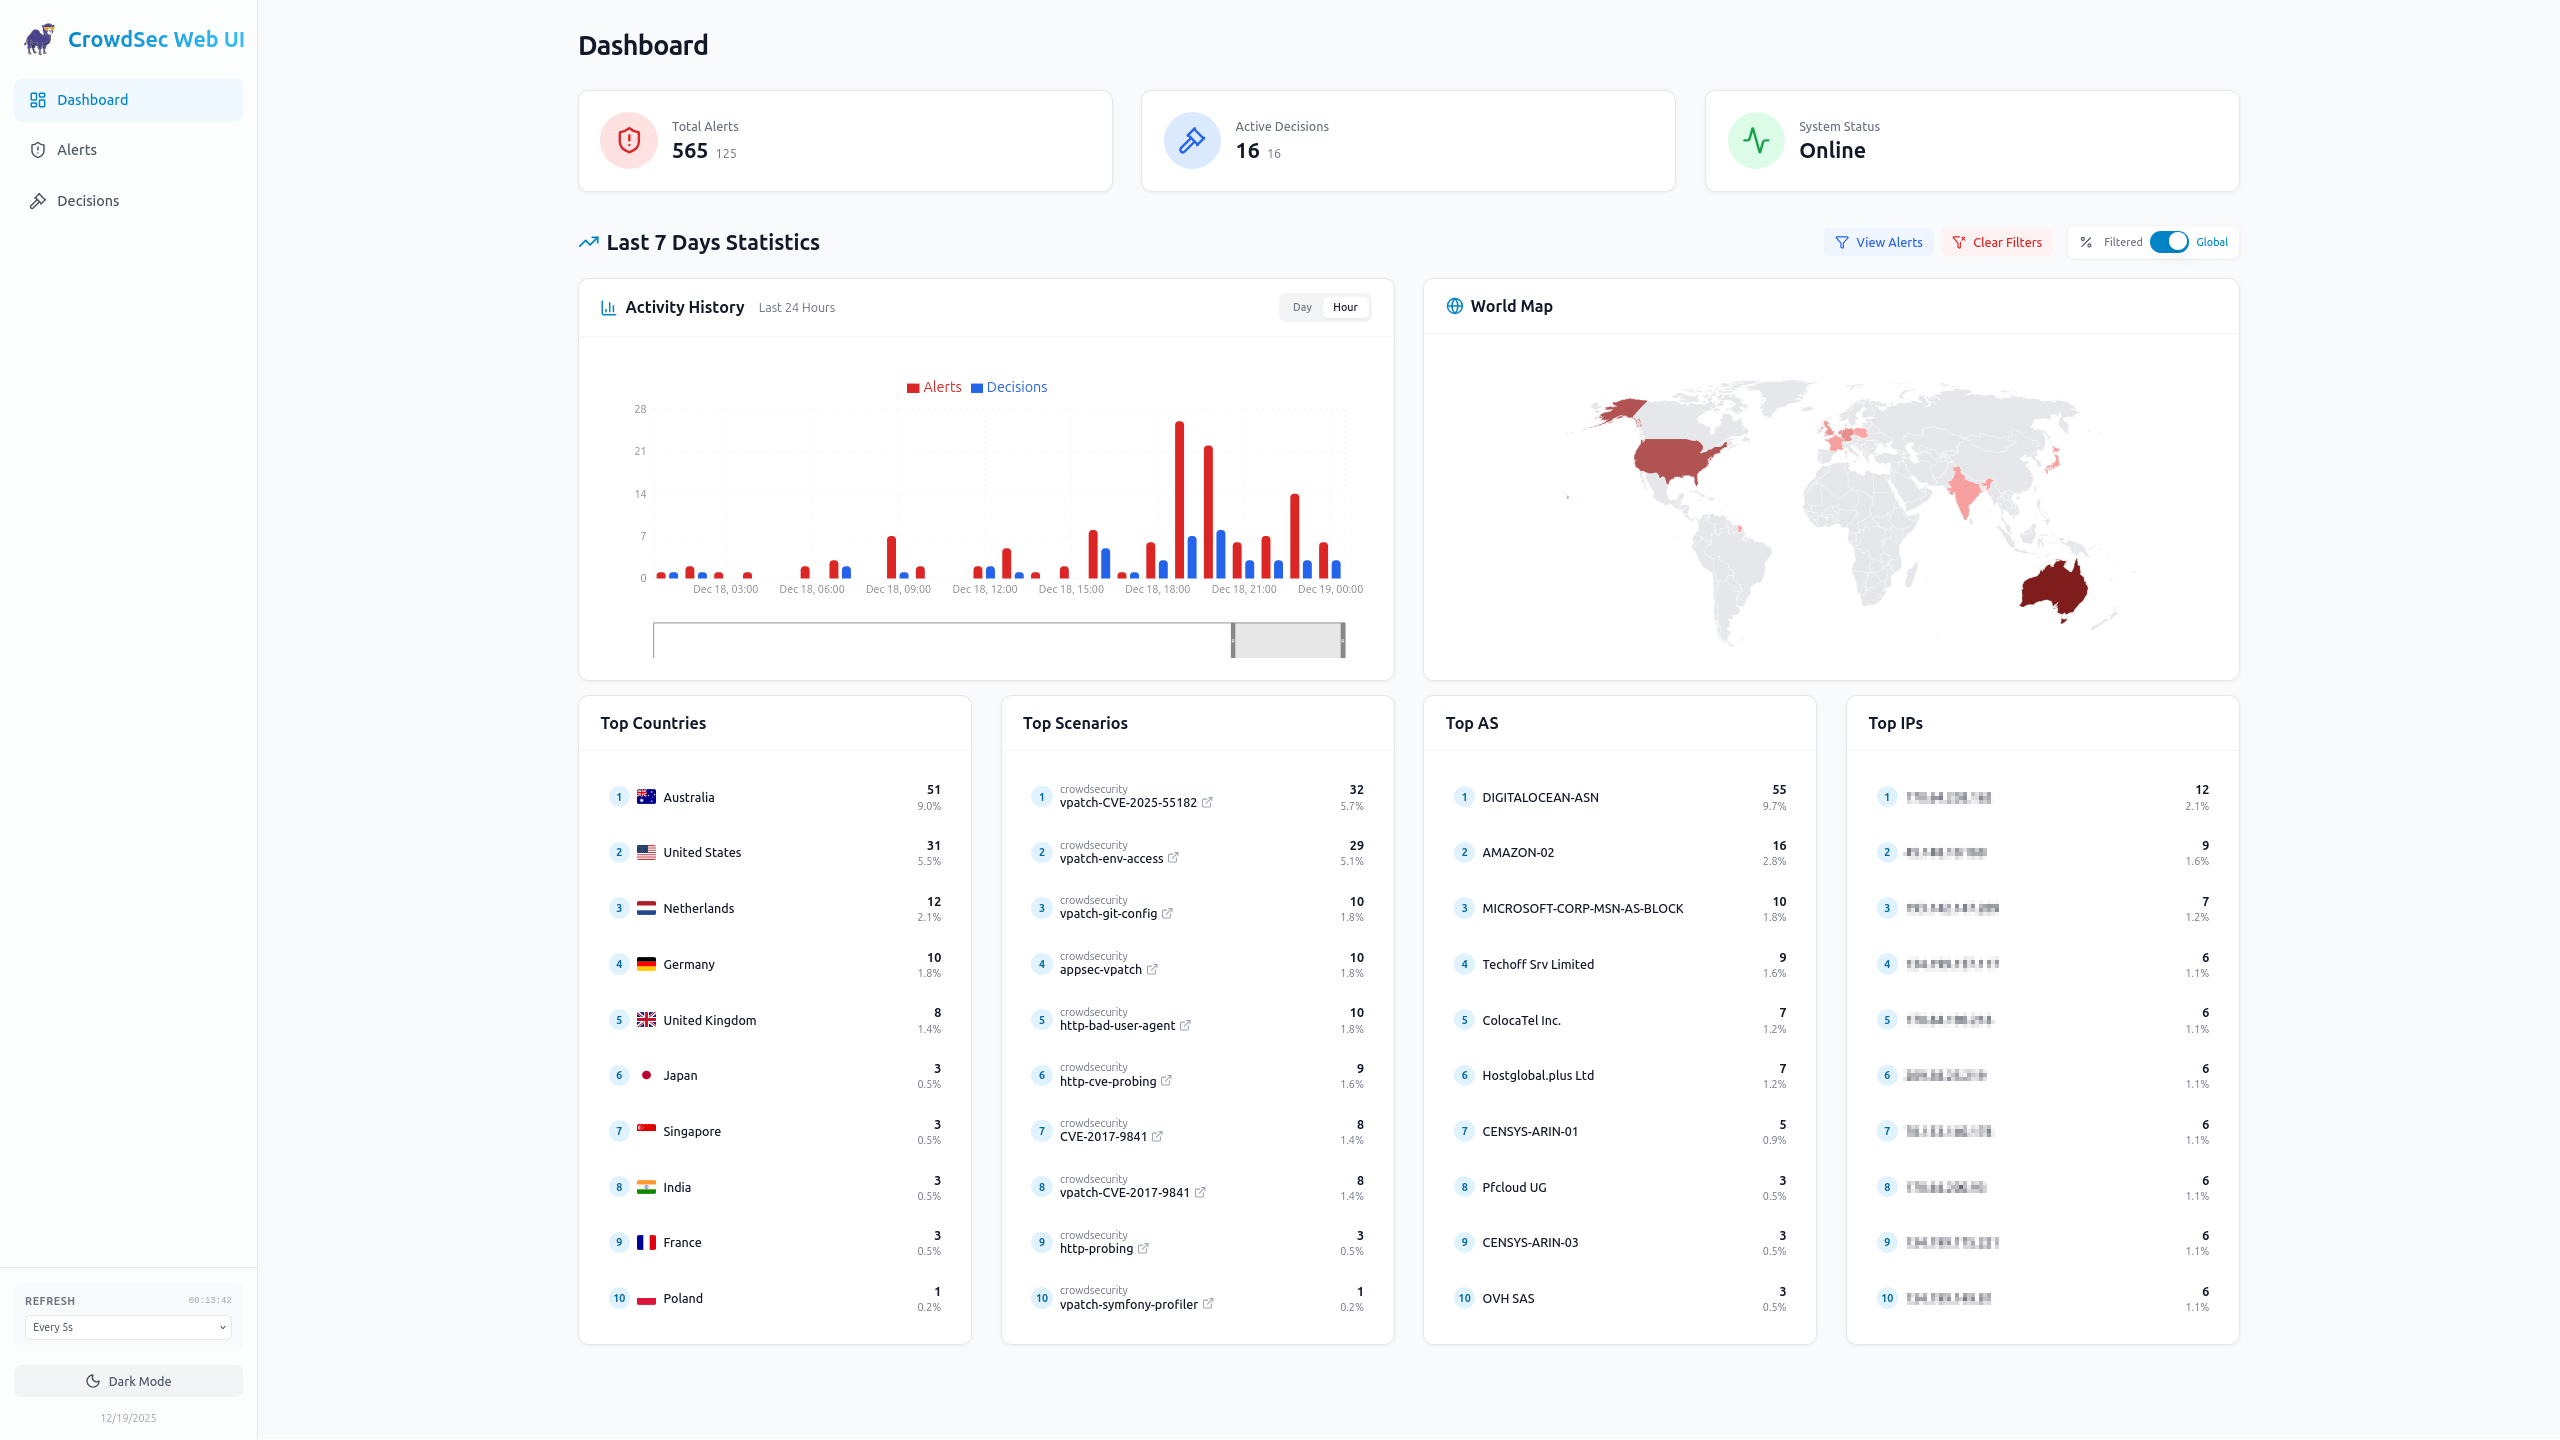
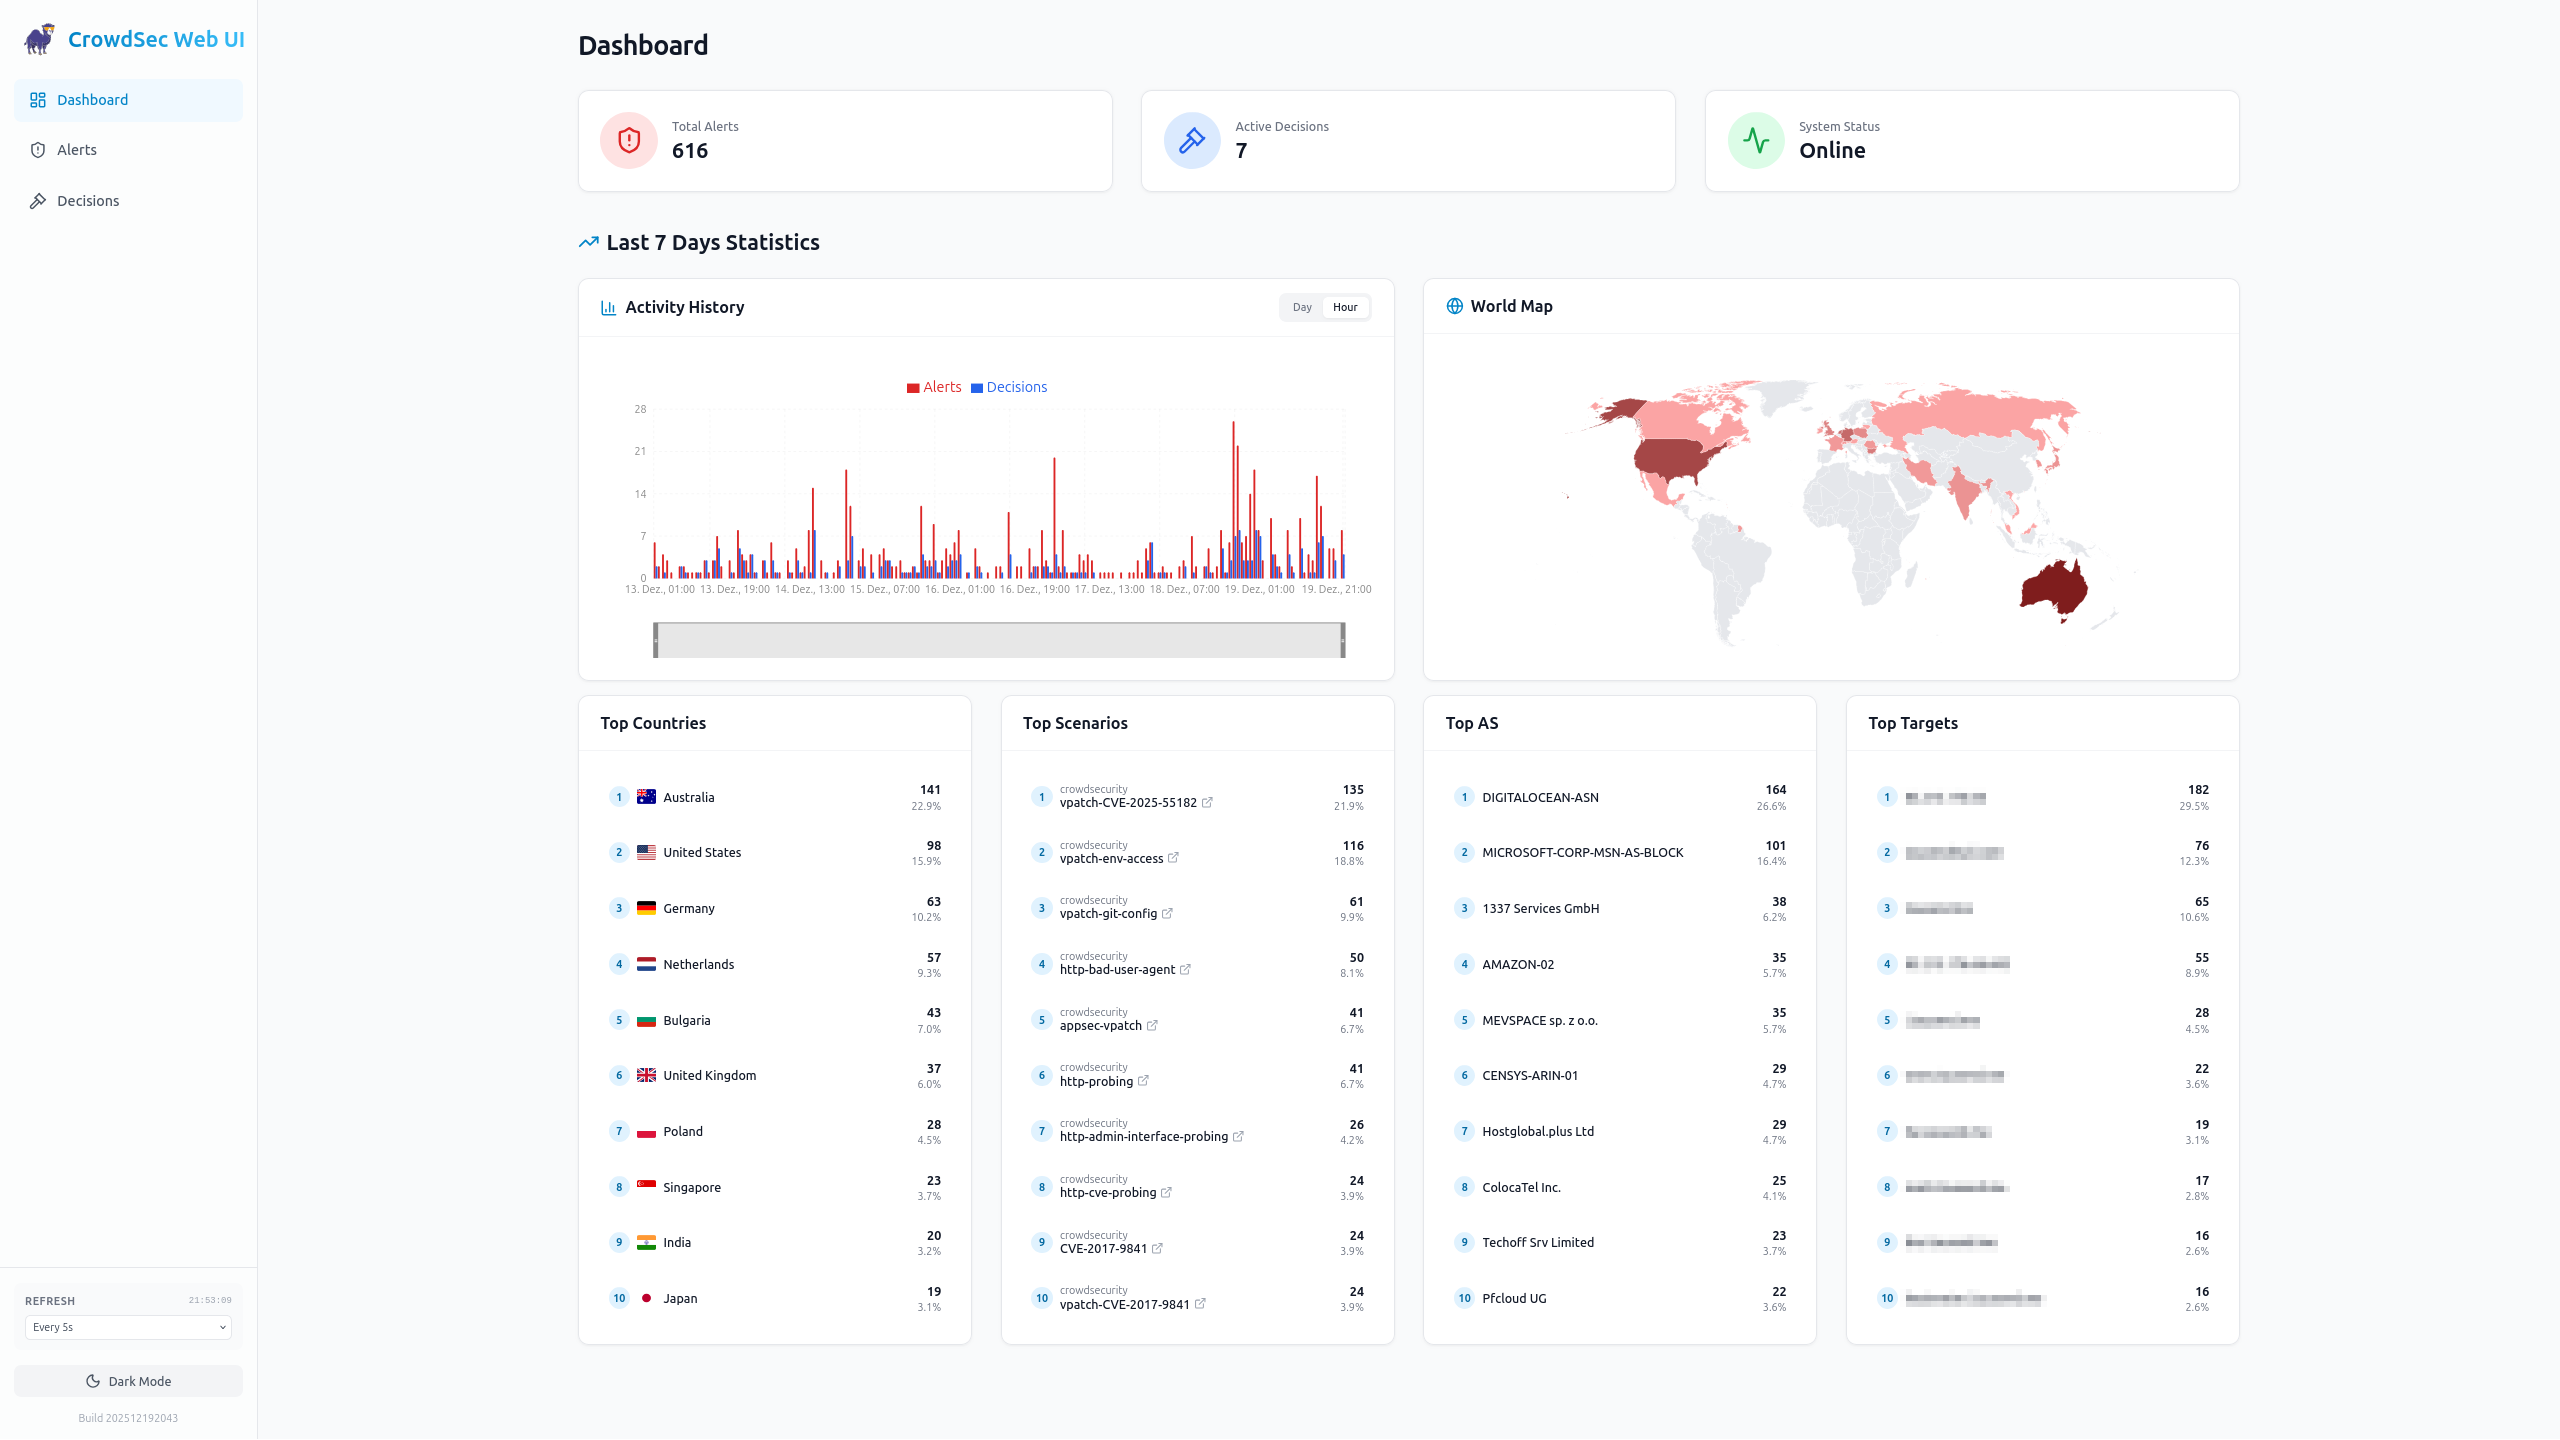
feat: replace Top IPs with Top Targets and add target filter parameter (#14)

diff --git a/frontend/src/pages/Dashboard.jsx b/frontend/src/pages/Dashboard.jsx
@@ -11,7 +11,9 @@ import { WorldMapCard } from "../components/WorldMapCard";
 import { ScenarioName } from "../components/ScenarioName";
 import {
     filterLastNDays,
-    getTopIPs,
+
+    getTopTargets,
+    getAlertTarget,
     getTopCountries,
     getAllCountries,
     getTopScenarios,
@@ -76,8 +78,10 @@ export function Dashboard() {
             dateRangeSticky: false,
             country: null,
             scenario: null,
+            scenario: null,
             as: null,
-            ip: null
+            ip: null,
+            target: null
         };
     });
 
@@ -301,6 +305,34 @@ export function Dashboard() {
             sliderDecisions = sliderDecisions.filter(d => d.value === filters.ip);
         }
 
+        if (filters.target) {
+            filteredAlerts = filteredAlerts.filter(a => getAlertTarget(a) === filters.target);
+            // Decisions don't inherently have a "target" field compatible with getAlertTarget (which looks at events)
+            // But we can filter decisions by seeing if they are associated with alerts that match the target.
+            // However, decisions are often standalone or the link is weak. 
+            // BUT, if we view "Decisions" as "Decisions made on this Target", we need to filter decisions.
+            // Since we don't have a direct link in the decision object to the target (machine_id is origin, but not target per se?),
+            // let's try to match by alerts again.
+            const ipsOnTarget = new Set(
+                filteredAlerts.map(a => a.source.ip).filter(ip => ip)
+            );
+            activeDecisions = activeDecisions.filter(d => ipsOnTarget.has(d.value));
+
+            // Charts
+            chartAlerts = chartAlerts.filter(a => getAlertTarget(a) === filters.target);
+            const chartIpsOnTarget = new Set(
+                chartAlerts.map(a => a.source.ip).filter(ip => ip)
+            );
+            chartDecisionsData = chartDecisionsData.filter(d => chartIpsOnTarget.has(d.value));
+
+            // Slider
+            sliderAlerts = sliderAlerts.filter(a => getAlertTarget(a) === filters.target);
+            const sliderIpsOnTarget = new Set(
+                sliderAlerts.map(a => a.source.ip).filter(ip => ip)
+            );
+            sliderDecisions = sliderDecisions.filter(d => sliderIpsOnTarget.has(d.value));
+        }
+
         return {
             alerts: filteredAlerts,
             decisions: activeDecisions,  // Active decisions for card/lists
@@ -332,7 +364,7 @@ export function Dashboard() {
         // So the pie chart should reflect the date selection. The bar chart should reflect the country selection.
 
         return {
-            topIPs: getTopIPs(filteredData.alerts, 10),
+            topTargets: getTopTargets(filteredData.alerts, 10),
             // Top Countries list is removed per requirements, but we calculate it for the Pie Chart
             topCountries: getTopCountries(filteredData.alerts, 10), // Get more for the pie chart
             allCountries: getAllCountries(filteredData.alerts),  // For map display
@@ -361,7 +393,8 @@ export function Dashboard() {
             country: null,
             scenario: null,
             as: null,
-            ip: null
+            ip: null,
+            target: null
         });
     };
 
@@ -369,7 +402,8 @@ export function Dashboard() {
         filters.country !== null ||
         filters.scenario !== null ||
         filters.as !== null ||
-        filters.ip !== null;
+        filters.ip !== null ||
+        filters.target !== null;
 
     if (loading) {
         return <div className="text-center p-8 text-gray-500">Loading dashboard...</div>;
@@ -471,6 +505,7 @@ export function Dashboard() {
                                             if (filters.scenario) params.set('scenario', filters.scenario);
                                             if (filters.as) params.set('as', filters.as);
                                             if (filters.ip) params.set('ip', filters.ip);
+                                            if (filters.target) params.set('target', filters.target);
                                             if (filters.dateRange) {
                                                 params.set('dateStart', filters.dateRange.start);
                                                 params.set('dateEnd', filters.dateRange.end);
@@ -575,10 +610,10 @@ export function Dashboard() {
                                 total={percentageBasis === 'global' ? filteredData.globalTotal : filteredData.alerts.length}
                             />
                             <StatCard
-                                title="Top IPs"
-                                items={statistics.topIPs}
-                                onSelect={(item) => toggleFilter('ip', item.label)}
-                                selectedValue={filters.ip}
+                                title="Top Targets"
+                                items={statistics.topTargets}
+                                onSelect={(item) => toggleFilter('target', item.label)}
+                                selectedValue={filters.target}
                                 total={percentageBasis === 'global' ? filteredData.globalTotal : filteredData.alerts.length}
                             />
                         </div>

diff --git a/frontend/src/pages/Alerts.jsx b/frontend/src/pages/Alerts.jsx
@@ -7,6 +7,7 @@ import { Modal } from "../components/ui/Modal";
 import { ScenarioName } from "../components/ScenarioName";
 import { TimeDisplay } from "../components/TimeDisplay";
 import { getHubUrl, getCountryName } from "../lib/utils";
+import { getAlertTarget } from "../lib/stats";
 import { Search, Info, ExternalLink, Shield } from "lucide-react";
 import "flag-icons/css/flag-icons.min.css";
 
@@ -95,7 +96,9 @@ export function Alerts() {
         const paramAs = (searchParams.get("as") || "").toLowerCase();
         const paramDate = searchParams.get("date") || "";
         const paramDateStart = searchParams.get("dateStart") || "";
+
         const paramDateEnd = searchParams.get("dateEnd") || "";
+        const paramTarget = (searchParams.get("target") || "").toLowerCase();
 
         const scenario = (alert.scenario || "").toLowerCase();
         const message = (alert.message || "").toLowerCase();
@@ -107,7 +110,9 @@ export function Alerts() {
         if (paramIp && !ip.includes(paramIp)) return false;
         if (paramCountry && !cn.includes(paramCountry)) return false;
         if (paramScenario && !scenario.includes(paramScenario)) return false;
+        if (paramScenario && !scenario.includes(paramScenario)) return false;
         if (paramAs && !asName.includes(paramAs)) return false;
+        if (paramTarget && !(getAlertTarget(alert) || "").toLowerCase().includes(paramTarget)) return false;
 
         // Single date filter (legacy support)
         if (paramDate && !(alert.created_at && alert.created_at.startsWith(paramDate))) return false;
@@ -143,7 +148,8 @@ export function Alerts() {
                 message.includes(search) ||
                 ip.includes(search) ||
                 cn.includes(search) ||
-                asName.includes(search);
+                asName.includes(search) ||
+                (getAlertTarget(alert) || "").toLowerCase().includes(search);
         }
 
         return true;
@@ -163,9 +169,9 @@ export function Alerts() {
             </div>
 
             {/* Show active filters */}
-            {(searchParams.get("ip") || searchParams.get("country") || searchParams.get("scenario") || searchParams.get("as") || searchParams.get("date") || searchParams.get("dateStart") || searchParams.get("dateEnd")) && (
+            {(searchParams.get("ip") || searchParams.get("country") || searchParams.get("scenario") || searchParams.get("as") || searchParams.get("target") || searchParams.get("date") || searchParams.get("dateStart") || searchParams.get("dateEnd")) && (
                 <div className="flex flex-wrap gap-2">
-                    {["ip", "country", "scenario", "as", "date", "dateStart", "dateEnd"].map(key => {
+                    {["ip", "country", "scenario", "as", "target", "date", "dateStart", "dateEnd"].map(key => {
                         const val = searchParams.get(key);
                         if (!val) return null;
                         return (

diff --git a/frontend/src/lib/stats.js b/frontend/src/lib/stats.js
@@ -132,6 +132,53 @@ export function getTopAS(alerts, limit = 10) {
 }
 
 /**
+ * Get the target identifier for an alert
+ * Prioritizes: target_fqdn > target_host > service > machine_alias > machine_id
+ */
+export function getAlertTarget(alert) {
+    if (!alert) return "Unknown";
+
+    // Try to find target in events
+    if (alert.events) {
+        for (const event of alert.events) {
+            if (event.meta) {
+                // Check common meta keys for target info
+                const targetFqdn = event.meta.find(m => m.key === 'target_fqdn')?.value;
+                if (targetFqdn) return targetFqdn;
+
+                const targetHost = event.meta.find(m => m.key === 'target_host')?.value;
+                if (targetHost) return targetHost;
+
+                const service = event.meta.find(m => m.key === 'service')?.value;
+                if (service) return service;
+            }
+        }
+    }
+
+    // Fallback
+    return alert.machine_alias || alert.machine_id || "Unknown";
+}
+
+/**
+ * Get top Targets by alert count
+ */
+export function getTopTargets(alerts, limit = 10) {
+    const targetCounts = {};
+
+    alerts.forEach(alert => {
+        const target = getAlertTarget(alert);
+        if (target && target !== "Unknown") {
+            targetCounts[target] = (targetCounts[target] || 0) + 1;
+        }
+    });
+
+    return Object.entries(targetCounts)
+        .sort((a, b) => b[1] - a[1])
+        .slice(0, limit)
+        .map(([target, count]) => ({ label: target, count }));
+}
+
+/**
  * Get aggregated stats for the given time range and granularity
  * @param {Array} items - List of items with created_at
  * @param {number} days - Number of days to look back
